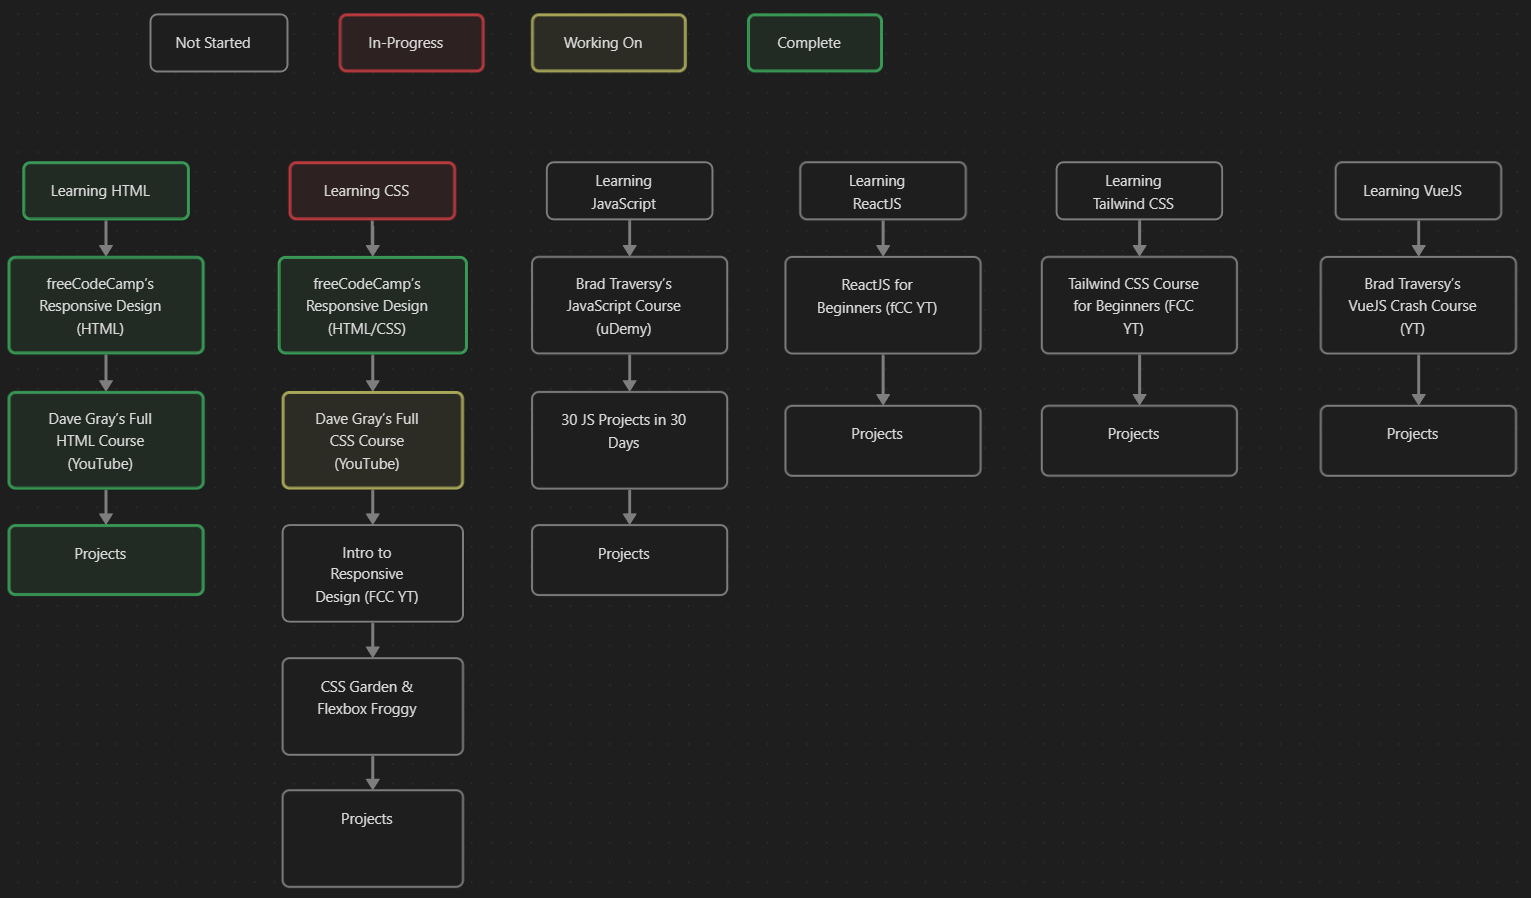
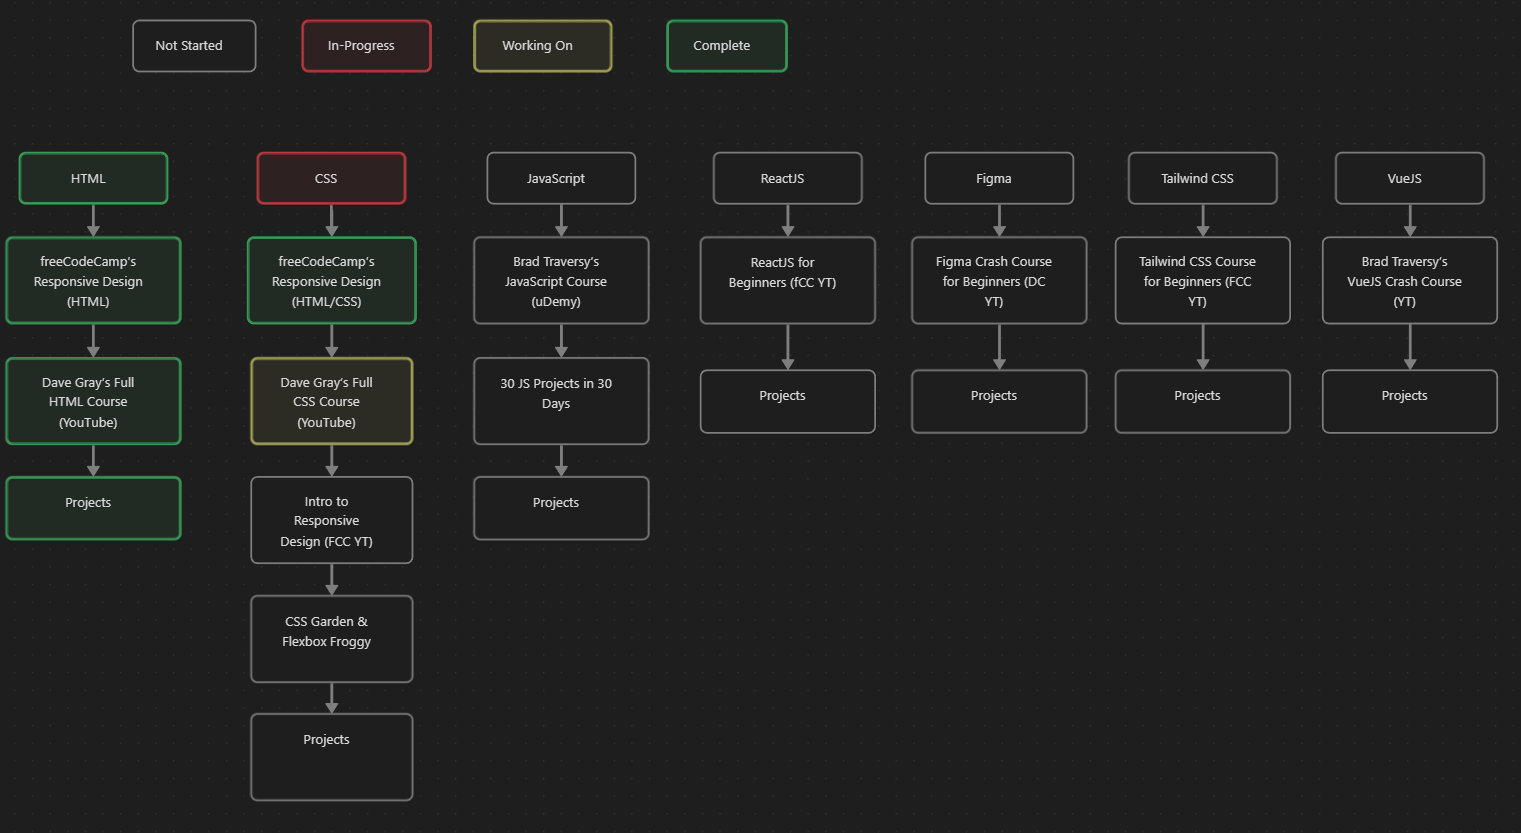
Completed Day 20
Completed Day 20
Added Day 21
Added new project from Dave Gray's CSS Course
Re-added ReactJS Roadmap
Added Figma to my learning path and resources
Updated Learning Path canvas

diff --git a/resources.md b/resources.md
@@ -7,7 +7,7 @@ I created this learning path using [roadmap.sh](https://roadmap.sh/) and took so
 <details>
     <summary>My learning path</summary>
         <img src="https://github.com/kylecreate/100DaysOfCode/blob/main/imgs/LearningPath.png" alt="Personal Learning roadmap" title="Personal Learning roadmap">
-        <p style="font-size: 12">Path last updated: 1/30/24</p>
+        <p style="font-size: 12">Path last updated: 1/31/24</p>
 </details>
 
 ## Programs Using
@@ -17,7 +17,7 @@ I created this learning path using [roadmap.sh](https://roadmap.sh/) and took so
 * [Obsidian](https://obsidian.md/) - Taking notes while learning
 * [Notion](https://www.notion.so/) - Keeping track of potential projects ideas and links to all courses
 * [Google Chrome](https://www.google.com/chrome/) | [Firefox](https://www.mozilla.org/en-US/firefox/new/) - Web Browsers
-* [Frontend Roadmap](https://roadmap.sh/frontend) -- [JavaScript Roadmap](https://roadmap.sh/javascript) -- [VueJS Roadmap](https://roadmap.sh/vue)
+* [Frontend Roadmap](https://roadmap.sh/frontend) | [JavaScript Roadmap](https://roadmap.sh/javascript) | [ReactJS Roadmap](https://roadmap.sh/react) | [VueJS Roadmap](https://roadmap.sh/vue)
 
 ## Learning Resources
 
@@ -41,6 +41,7 @@ I created this learning path using [roadmap.sh](https://roadmap.sh/) and took so
 * [FCC Technical Documentation](https://github.com/kylecreate/FCC-TechDoc)
 * [FCC Product Landing Page](https://github.com/kylecreate/FCC-ProductLanding)
 * [FCC Personal Portfolio](https://github.com/kylecreate/FCC-Portfolio)
+* [Cards Mini-Project](https://github.com/kylecreate/CardMiniProject)
 
 ### JavaScript
 * [Brad Traversy's JavaScript Course](https://www.udemy.com/course/modern-javascript-from-the-beginning/) - <i>uDemy</i>
@@ -50,6 +51,10 @@ I created this learning path using [roadmap.sh](https://roadmap.sh/) and took so
 
 ### ReactJS
 * [freeCodeCamp's ReactJS for Beginners](https://www.youtube.com/watch?v=bMknfKXIFA8) - <i>YouTube</i>
+* <i>Future Project Here</i>
+
+### Figma
+* [Figma Crash Course for Beginners](https://www.youtube.com/watch?v=o1nCmiW6auE)
 * <i>Future Project Here</i>
 
 ### Tailwind CSS

diff --git a/r1-log.md b/r1-log.md
@@ -382,6 +382,25 @@
   <summary>Day 20: Jan 31, 2024</summary>
 
   ### Today's Progress: 
+  * Continued working on Dave Gray's CSS Course on YouTube (Ch.17 → Ch.20, starting Ch.20 tomorrow)
+
+  ### Link to work:
+  * [Card Mini-Project](https://github.com/kylecreate/CardMiniProject)
+
+  ### New thing(s) learned:
+  * Learned about Media Queries and Pseudo Selectors/Classes
+
+  ### Thoughts:
+  * Media queries are pretty cool and excited to use them in the future. As for Pseudo Selectors and classes, I can definietly see how these can be useful.
+
+  ### Time spent working
+  * 1.5 hrs
+</details>
+
+<details>
+  <summary>Day 21: Feb 1, 2024</summary>
+
+  ### Today's Progress: 
   * 
 
   ### Link to work:
